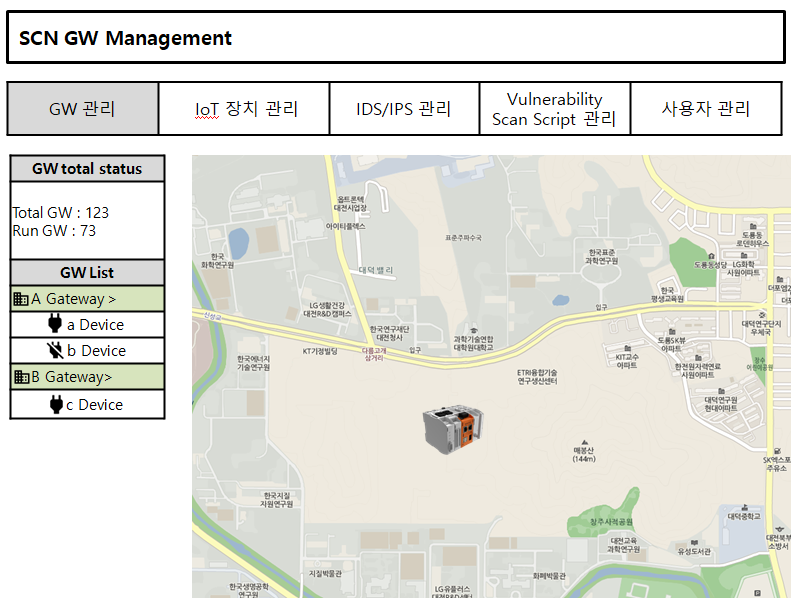
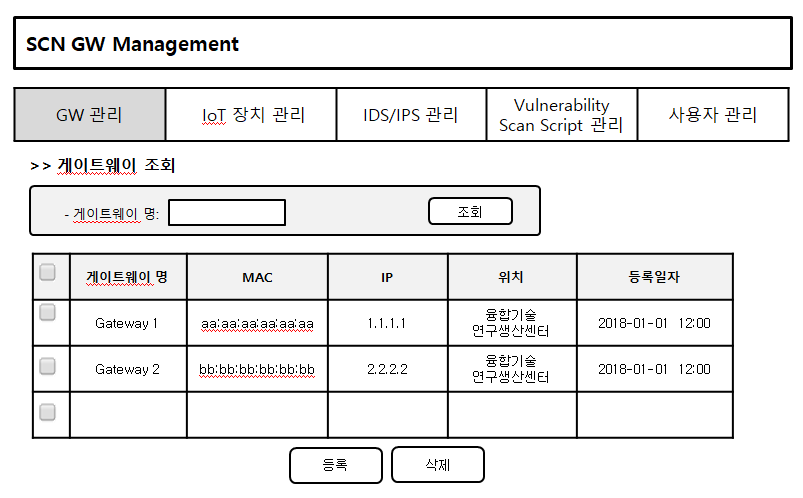
no message

diff --git a/시스템설계서/4장-관제_시스템.rst b/시스템설계서/4장-관제_시스템.rst
@@ -29,7 +29,7 @@ EdgeX  코어/메타 데이터 확인
    :alt: alternate text
 
 1. SCN-GW 관리 페이지.
-2. 지도에서 선택한 위치에 SCN-GW 를 추가 할 수 있다.
+2. SCN-GW 등록, 수정, 삭제, 조회를 할 수 있다.
 3. SCN-GW 에 연결된 Device 목록을 확인 할 수 있다.
 
 
